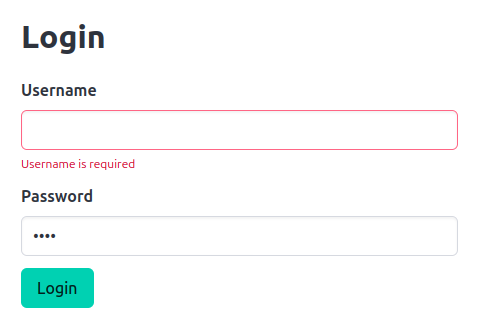
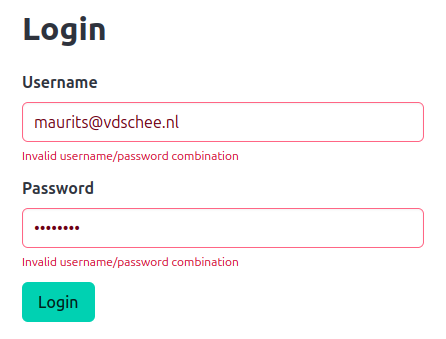
update

Changed region(s): [[0.0291, 0.5357, 0.9619, 0.9524], [0.0291, 0.2083, 0.9619, 0.506], [0.0291, 0.0298, 0.2332, 0.1786]]

diff --git a/tests/Forms/ReadmeFormTest.php b/tests/Forms/ReadmeFormTest.php
@@ -13,7 +13,7 @@ class ReadmeFormTest extends TestCase
     {
         E::$style = 'none';
         $form = E::form([
-            E::field(E::text('username')->required(), E::label('Username'), [V::required('Username is required')]),
+            E::field(E::text('username')->required(), E::label('Username')),
             E::field(E::password('password'), E::label('Password')),
             E::field(E::submit('Login')),
         ]);
@@ -39,7 +39,7 @@ class ReadmeFormTest extends TestCase
     {
         E::$style = 'bulma';
         $form = E::form([
-            E::field(E::text('username')->required(), E::label('Username'), [V::required('Username is required')]),
+            E::field(E::text('username')->required(), E::label('Username')),
             E::field(E::password('password'), E::label('Password')),
             E::field(E::submit('Login')),
         ]);
@@ -71,25 +71,24 @@ class ReadmeFormTest extends TestCase
     {
         E::$style = 'bulma';
         $form = E::form([
-            E::field(E::text('username')->required(), E::label('Username'), [V::required('Username is required')]),
+            E::field(E::text('username')->required(), E::label('Username')),
             E::field(E::password('password'), E::label('Password')),
             E::field(E::submit('Login')),
         ]);
-        $form->fill(['username' => '', 'password' => '']);
+        $form->fill(['username' => 'test', 'password' => 'test']);
         $form->validate();
         $lines = [
             '<form method="post">',
             '  <div class="field">',
             '    <label class="label" for="username">Username</label>',
             '    <div class="control">',
-            '      <input id="username" class="input is-danger" type="text" name="username" value="" required="required"/>',
+            '      <input id="username" class="input" type="text" name="username" value="test" required="required"/>',
             '    </div>',
-            '    <p class="help is-danger">Username is required</p>',
             '  </div>',
             '  <div class="field">',
             '    <label class="label" for="password">Password</label>',
             '    <div class="control">',
-            '      <input id="password" class="input" type="password" name="password" value=""/>',
+            '      <input id="password" class="input" type="password" name="password" value="test"/>',
             '    </div>',
             '  </div>',
             '  <div class="field">',
@@ -106,7 +105,7 @@ class ReadmeFormTest extends TestCase
     {
         E::$style = 'bulma';
         $form = E::form([
-            E::field(E::text('username')->required(), E::label('Username'), [V::required('Username is required')]),
+            E::field(E::text('username')->required(), E::label('Username')),
             E::field(E::password('password'), E::label('Password')),
             E::field(E::submit('Login')),
         ]);

diff --git a/example.php b/example.php
@@ -12,7 +12,7 @@ E::$style = 'bulma';
 
 // create a form object
 $form = E::form([
-    E::field(E::text('username'), E::label('Username'), [V::required('Username is required')]),
+    E::field(E::text('username')->required(), E::label('Username')),
     E::field(E::password('password'), E::label('Password')),
     E::field(E::submit('Login')),
 ]);

diff --git a/README.md b/README.md
@@ -80,8 +80,8 @@ Just tell MintyPHP Forms that you want to use Bulmas style forms using:
 E::$style = 'bulma';
 // create and render the login form
 $form = E::form([
-    E::field(E::text('username'),E::label('Username'),[V::required('Username is required')]),
-    E::field(E::password('password'),E::label('Password')),
+    E::field(E::text('username')->required(), E::label('Username')),
+    E::field(E::password('password'), E::label('Password')),
     E::field(E::submit('Login')),
 ]);
 $form->render(true);
@@ -94,7 +94,7 @@ And the output will be form in the familiar Bulma style:
   <div class="field">
     <label class="label" for="username">Username</label>
     <div class="control">
-      <input id="username" class="input" type="text" name="username" value=""/>
+      <input id="username" class="input" type="text" name="username" value="" required="required"/>
     </div>
   </div>
   <div class="field">
